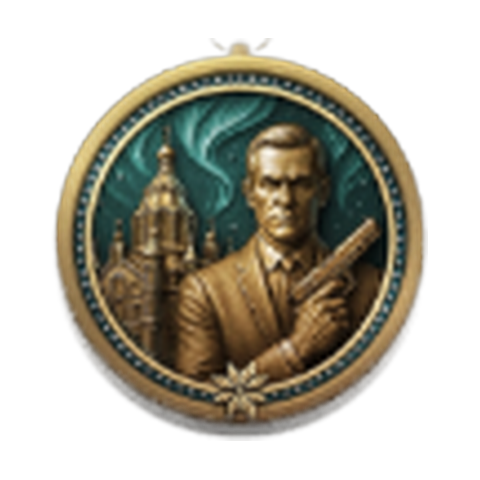
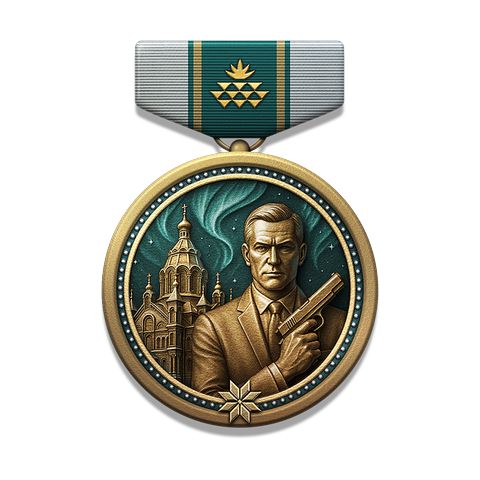
Collectibles: new medal art, regroup order, drop Nameplate 775
- New art for Medal 2000 (silver jester), Medal 1990 (gold) and Badge 2008
  (bronze shield); normalised to the shared 480x480 canvas, ~400px tall
- Order is now nameplates x4 -> card backs x2 -> medals/badge x3
  (063, 863, 901, 0222, THE BLACK FILE, THE ACE, Medal 2000, Medal 1990,
  Badge 2008); Nameplate 775 removed -> 9 items
- Fix the phone-width narrow-dots rule never applying (it sat above the
  base .carousel-dot rule and lost on source order); controls now stay on
  one row down to 320px with 9 dots

Claude-Session: https://claude.ai/code/session_015Nmzm8gGXHQQ8aP6468MXE

diff --git a/index.html b/index.html
@@ -257,6 +257,8 @@
       </button>
       <div class="carousel-viewport">
         <div class="carousel-track" tabindex="0">
+          <!-- 排列順序（2026-10-01 定案）：名牌 x4 → 撲克牌背 x2 → 徽章 x3
+               （Medal 2000 銀色小丑／Medal 1990 金色／Badge 2008 古銅色盾徽）。 -->
           <!-- Nameplate 063：用美術提供的「開箱動畫」動態 WebP 取代靜態圖，名稱已於
                v23 定案為 Nameplate 063（原先的「Agent Crate（試放）」為暫定名稱，
                現已正式沿用）。是否要把這個動態效果推廣到其餘 8 個收藏品，仍待後續
@@ -274,10 +276,6 @@
             <span class="collectible-slide-name">Nameplate 063</span>
           </div>
           <div class="collectible-slide">
-            <div class="collectible-slide-thumb"><img src="assets/collectibles/medal-2000.png" alt="Medal 2000 收藏徽章"></div>
-            <span class="collectible-slide-name">Medal 2000</span>
-          </div>
-          <div class="collectible-slide">
             <div class="collectible-slide-thumb"><img src="assets/collectibles/nameplate-863.png" alt="Nameplate 863 收藏名牌"></div>
             <span class="collectible-slide-name">Nameplate 863</span>
           </div>
@@ -290,16 +288,24 @@
             <span class="collectible-slide-name">Nameplate 0222</span>
           </div>
           <div class="collectible-slide">
-            <div class="collectible-slide-thumb"><img src="assets/collectibles/nameplate-775.png" alt="Nameplate 775 收藏名牌"></div>
-            <span class="collectible-slide-name">Nameplate 775</span>
-          </div>
-          <div class="collectible-slide">
             <div class="collectible-slide-thumb"><img src="assets/collectibles/the-black-file.png" alt="THE BLACK FILE 收藏牌背"></div>
             <span class="collectible-slide-name">THE BLACK FILE</span>
           </div>
           <div class="collectible-slide">
             <div class="collectible-slide-thumb"><img src="assets/collectibles/the-ace.png" alt="THE ACE 收藏牌背"></div>
             <span class="collectible-slide-name">THE ACE</span>
+          </div>
+          <div class="collectible-slide">
+            <div class="collectible-slide-thumb"><img src="assets/collectibles/medal-2000.png" alt="Medal 2000 收藏徽章"></div>
+            <span class="collectible-slide-name">Medal 2000</span>
+          </div>
+          <div class="collectible-slide">
+            <div class="collectible-slide-thumb"><img src="assets/collectibles/medal-1990.png" alt="Medal 1990 收藏徽章"></div>
+            <span class="collectible-slide-name">Medal 1990</span>
+          </div>
+          <div class="collectible-slide">
+            <div class="collectible-slide-thumb"><img src="assets/collectibles/badge-2008.png" alt="Badge 2008 收藏徽章"></div>
+            <span class="collectible-slide-name">Badge 2008</span>
           </div>
         </div>
       </div>

diff --git a/css/style.css b/css/style.css
@@ -813,7 +813,9 @@ p { margin: 0 0 16px; color: var(--color-text-muted); }
      wrapped the dots onto a second line; narrower dots keep one row. */
   .carousel-controls { gap: 14px; }
   .carousel-dots { gap: 6px; }
-  .carousel-dot { width: 24px; }
+  /* .carousel-dots prefix: this block sits above the base .carousel-dot
+     rule, so it needs the extra specificity to win (it silently lost before). */
+  .carousel-dots .carousel-dot { width: 24px; }
 }
 .carousel-dot {
   appearance: none;
